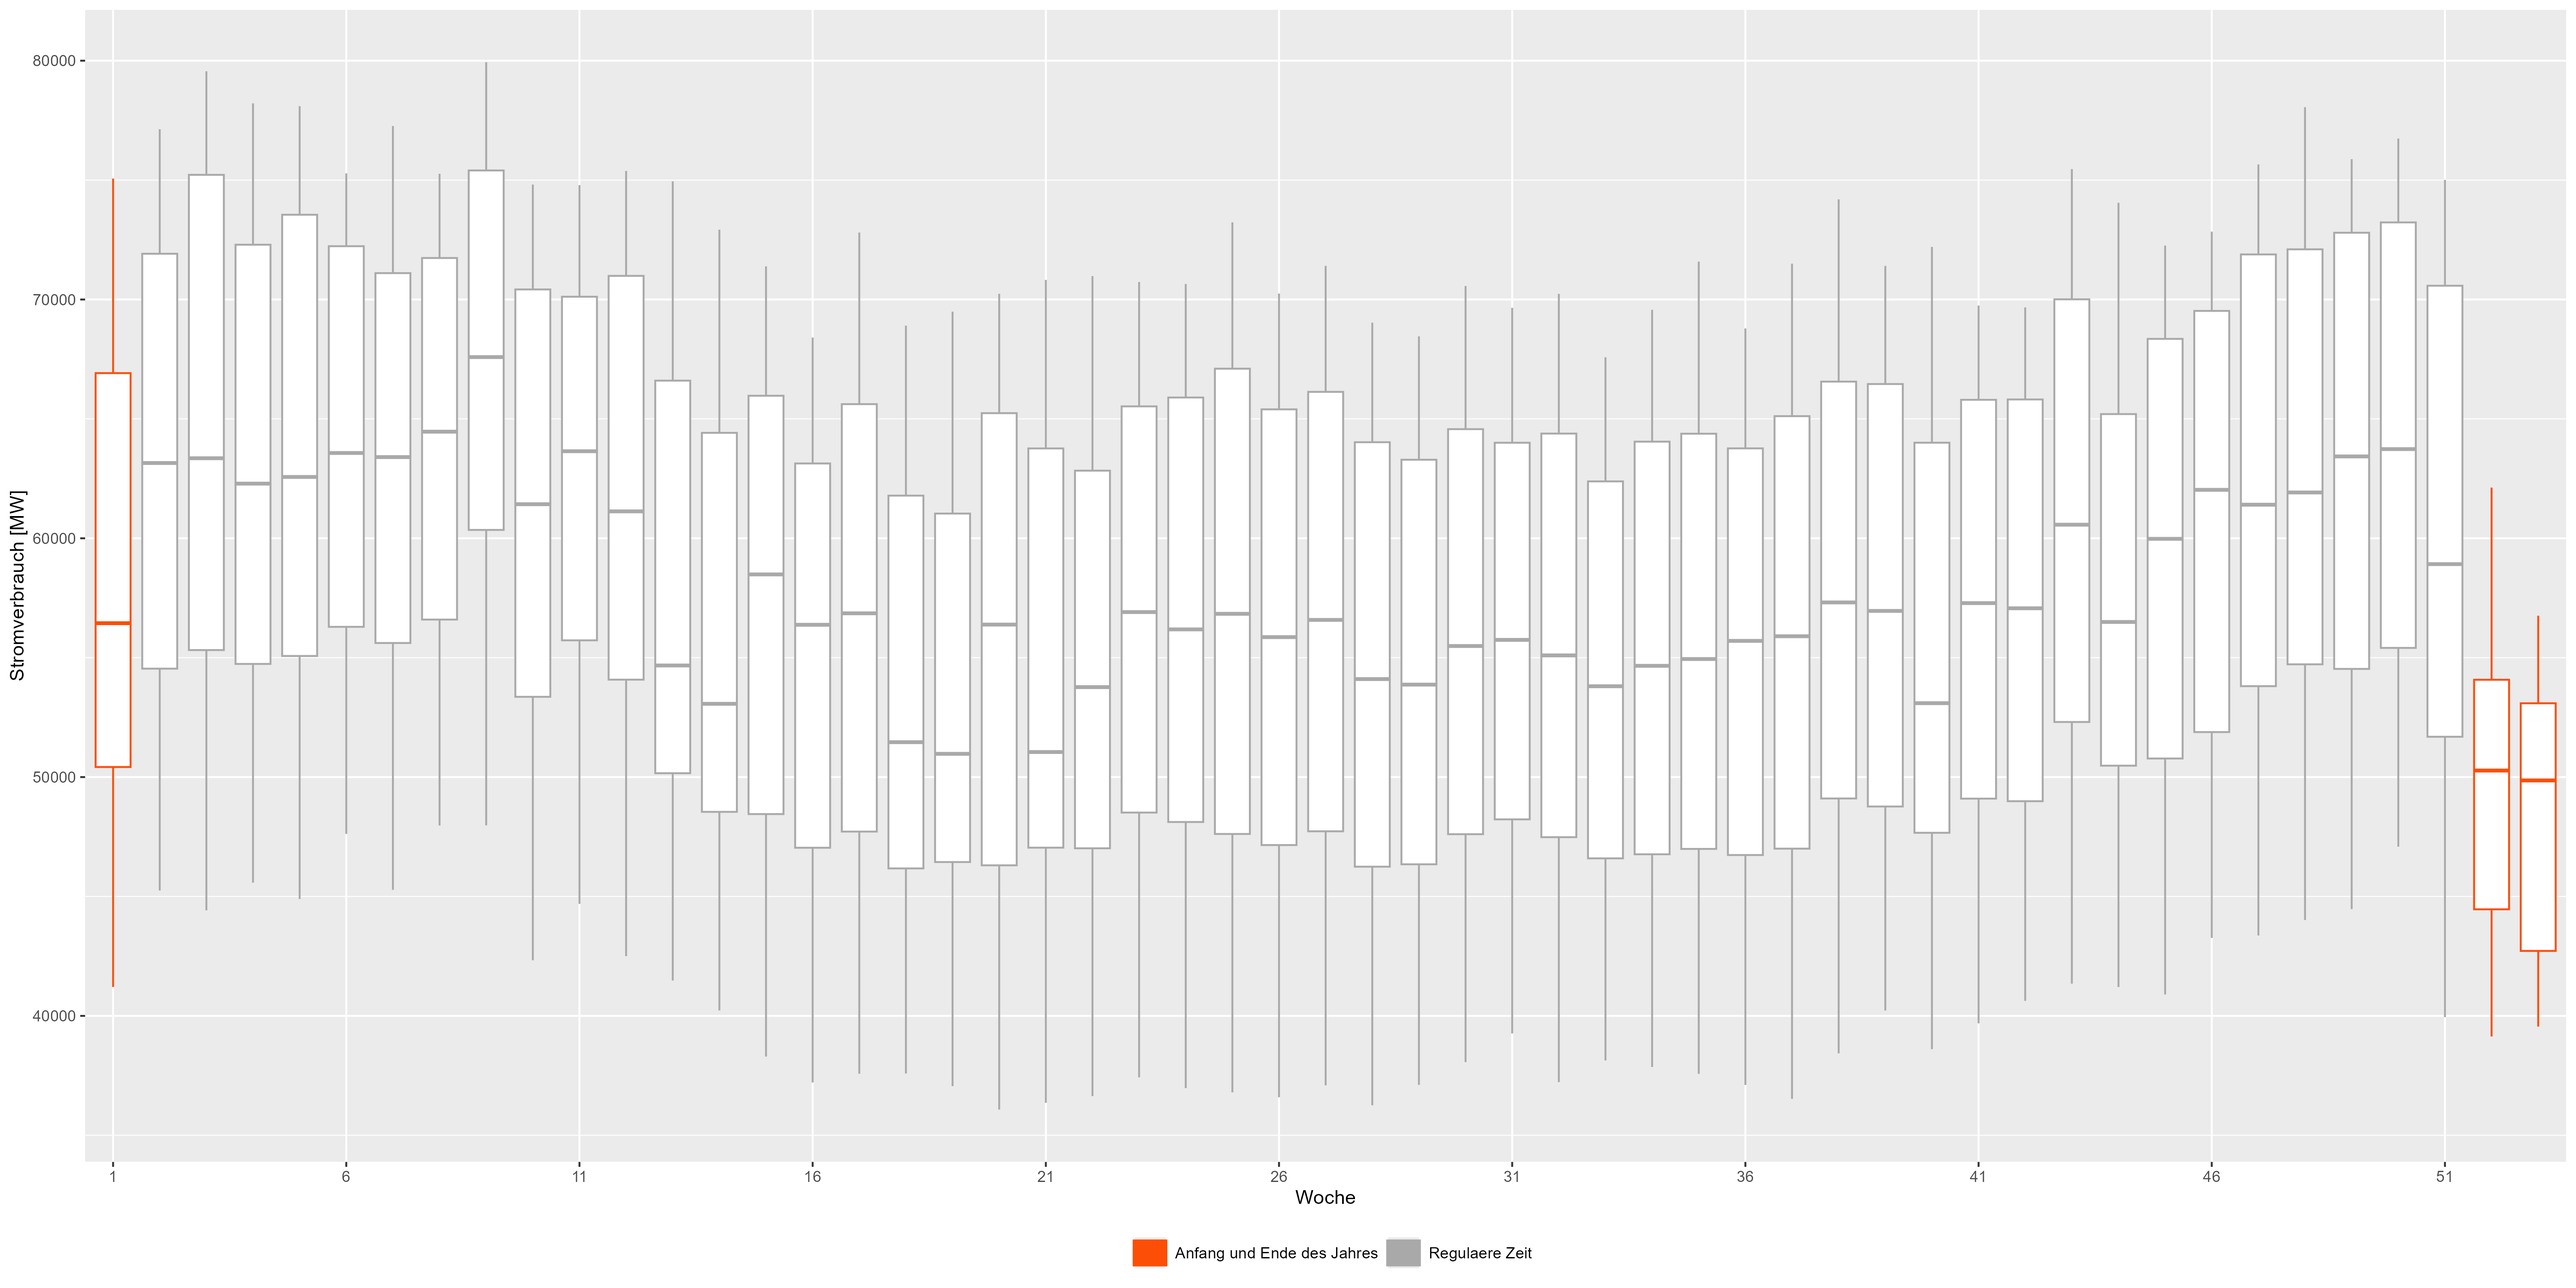
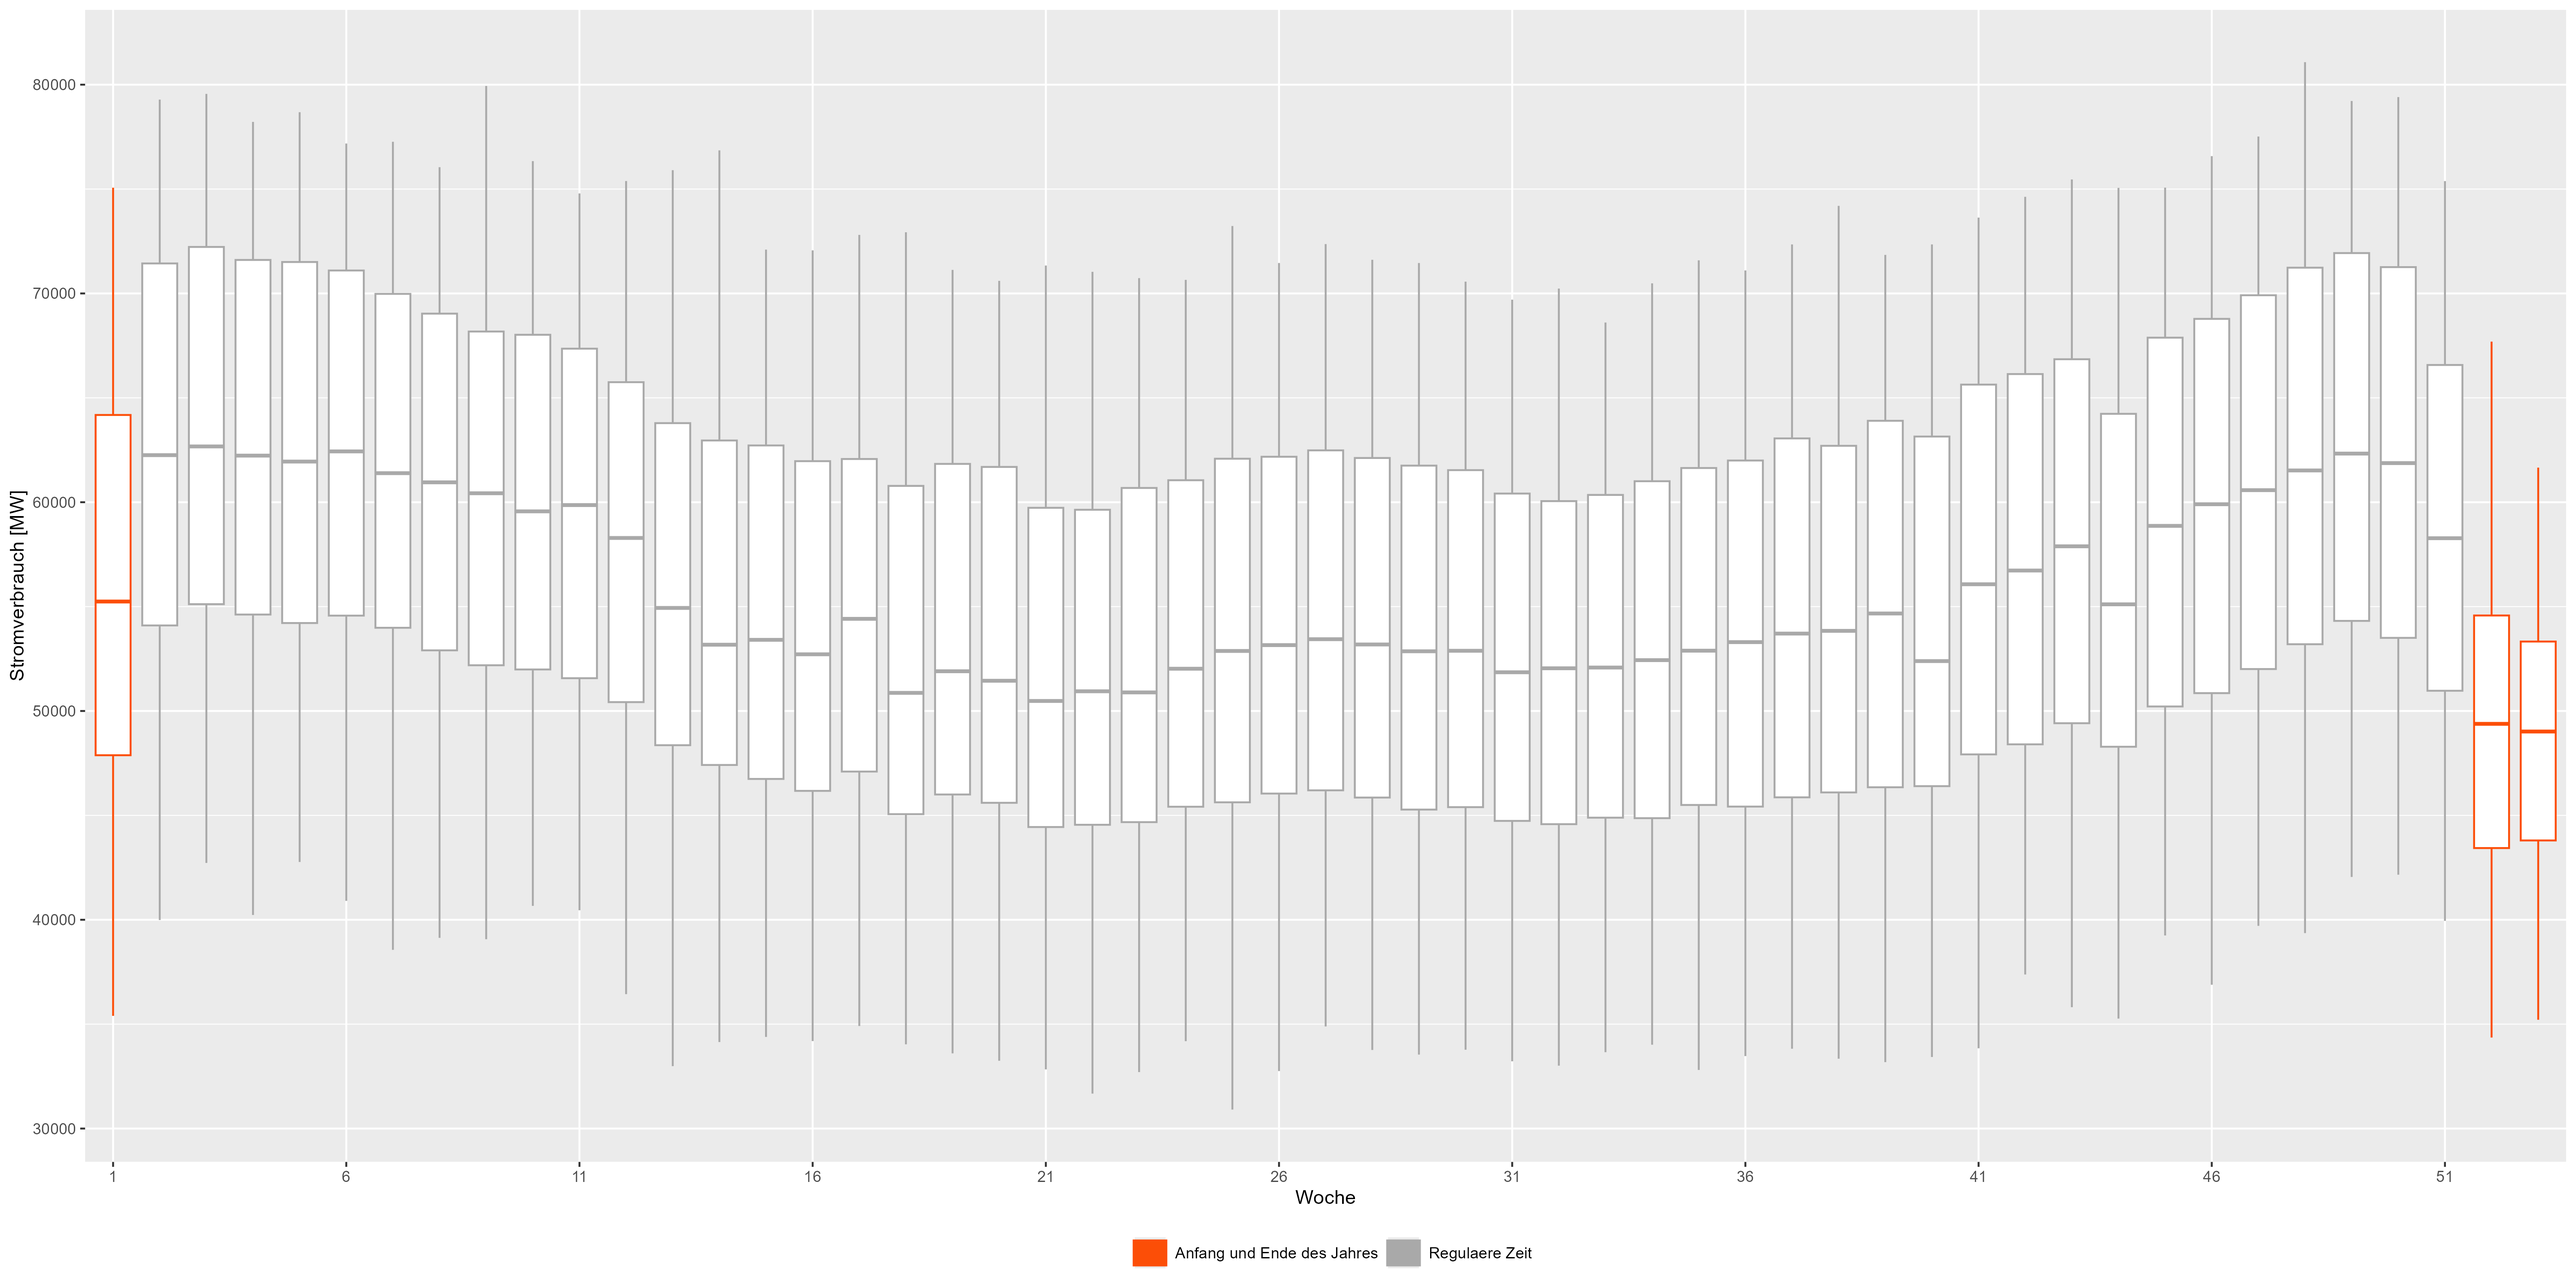
feature-explain

diff --git a/README.md b/README.md
@@ -2,7 +2,7 @@
 
 This repository is for forecasting german energy power consumption.
 
-Based on:
+Based opn and inspired from:
 
 - [Forecasting: Principles and Practice](https://otexts.com/fpp3/)
 - DOI: [10.1109/TPWRS.2011.2162082](https://ieeexplore.ieee.org/document/5985500) - Short-Term Load Forecasting Based on a Semi-Parametric Additive Model
@@ -19,17 +19,76 @@ Put all dowloaded files into:
     /example/dataset
 
 Check the [forecast.Rmd](example/forecast.Rmd) file to see how you can run
-this code on your dataset.
+this code on a updated Version of SMARD-Data.
 
-# Database
+---
 
-## Raw Dataset
+## From raw to cleaned Dataset
 
+    # Define datapaths
+    power_consum_path <- "dataset\\stunde_2015_2024\\Realisierter_Stromverbrauch_201501010000_202407090000_Stunde.csv"
+    power_consum_smard_prediction_path <- "dataset\\propgnose_vom_smard\\Prognostizierter_Stromverbrauch_202401010000_202407090000_Stunde.csv"
+    
+    # Load Smard Prediction
+    power_consum_smard_prediction_loaded <- load_power_consum(path=power_consum_smard_prediction_path)
+    raw_smard_pred <- power_consum_smard_prediction_loaded$raw_data
+    cleaned_smard_pred <- power_consum_smard_prediction_loaded$cleaned_data
+    
+    cleaned_smard_pred <- cleaned_smard_pred |>
+      mutate(.model = "SMARD")
+    names(cleaned_smard_pred)[names(cleaned_smard_pred) == "PowerConsum"] <- ".mean"
+    
+    # Load PowerConsum Data
+    power_consum_loaded <- load_power_consum(path=power_consum_path)
+    raw_power_consum <- power_consum_loaded$raw_data
+    cleaned_power_consum <- power_consum_loaded$cleaned_data
+
+Following features were generated from the dataset:
+
+| Index | Column Name                           | Description                                                      |
+|-------|---------------------------------------|------------------------------------------------------------------|
+| 1     | DateFrom                              | For validation of DateIndex (similar, but raw)                   |
+| 2     | PowerConsum                           | Power Consum in MW                                               |
+| 3     | DateIndex                             | Timestamp (yyyy-mm-dd hh:mm:ss)                                  |
+| 4     | Weekday                               | Mo, Di, Mi, Do, Fr, Sa, So (Weekdays in german)                  |
+| 5     | Date                                  | Date (yyyy-mm-dd)                                                |
+| 6     | Year                                  | Year yyyy                                                        |
+| 7     | Week                                  | Weeknumber 0-53                                                  |
+| 8     | Hour                                  | Hournumber 0-24                                                  |
+| 9     | Month                                 | Monthnumber 1-12                                                 |
+| 10    | localName                             | Name of a Holiday for Timestamp                                  |
+| 11    | WorkDay                               | 1/0 If Workday (Werktag) then 1                                  |
+| 12    | Mo                                    | 1/0 If Monday then 1                                             |
+| 13    | Di                                    | 1/0 If Tuesday then 1                                            |
+| 14    | Mi                                    | 1/0 If Wednesday then 1                                          |
+| 15    | Do                                    | 1/0 If Thursday then 1                                           |
+| 16    | Fr                                    | 1/0 If Friday then 1                                             |
+| 17    | Sa                                    | 1/0 If Saturday then 1                                           |
+| 18    | So                                    | 1/0 If Sunday then 1 (not needed, if Mon.-Sat. are used)         |
+| 19    | Holiday                               | 1/0 If it is a Holiday then 1                                    |
+| 20    | WorkdayHolidayWeekend                 | If it is a Holiday, Weekend or a Workday (for Plots, is Char.)   |
+| 21    | HolidayAndWorkDay                     | 1/0 If the Holiday is on a Workday then 1                        |
+| 22    | LastDayWasNotWorkDay                  | 1/0 If last day was not a Workday then 1                         |
+| 23    | LastDayWasNotWorkDayAndNowWorkDay     | 1/0 If last day was not a Workday and now it is a Workday then 1 |
+| 24    | NextDayIsNotWorkDayAndNowWorkDay      | 1/0 If next day is not a Workday and now a workday then 1        |
+| 25    | LastDayWasHolidayAndNotWeekend        | 1/0 If last day was a holiday and not a weekend then 1           |
+| 26    | NextDayIsHolidayAndNotWeekend         | 1/0 If next day is a holiday and not a weekend then 1            |
+| 27    | HolidayName                           | similar to localName (Name of the holiday)                       |
+| 28    | EndOfTheYear                          | 1/0 If it the end of the year (Week 52 or 53)                    |
+| 29    | FirstWeekOfTheYear                    | 1/0 If it is the beginning of the year (Week 1)                  |
+| 30    | HolidayExtended                       | 1/0 Lagged Holiday (6 Hours into the next day)                   |
+| 31    | HolidaySmoothed                       | HolidayExtend + sin(2*pi(Hour)+1)/24)                            |
+| 32    | MeanLastWeek                          | Mean PowerConsum of the Last Week  (Shift: 24*8-25)              |
+| 33    | MeanLastTwoDays                       | Mean PowerConsum of the last two days (Shift: 24*3-25)           |
+| 34    | MaxLastOneDay                         | Max PowerConsum of the last Day (Shift: 24*2-25)                 |
+| 35    | MinLastOneDay                         | Min PowerConsum of the last Day (Shift: 24*2-25)                 |
+
+ 
 In this study there is a dataset for Power-Consum in germany from [SMARD](https://www.smard.de/home/downloadcenter/download-marktdaten/) for
-the year 2015 - 2024.
+the years 2015 - 2024.
 
-Figure 1 shows the raw dataset with missing values (red), duplicated timestamps (orange) and
-Power-Consum over time (black), hourly resolution. With one missing values and one duplicate every year it was
+Figure 1 shows the raw dataset with missing values (red), duplicated timestamps (darkred) and
+Power-Consum over time (grey), hourly resolution. With one missing values and one duplicate every year it was
 easy to clean up the dataset. Overall an almost clean set. After cleaning up the dataset there are
 plausible observations for the Power-Consum:
 
@@ -52,8 +111,8 @@ there is a decrease (Christmas, New-year).
 Figure 2 Raw Power-Consum - Years
 
 The boxplot combination of all years we can see the pattern in more detail. Figure 3 shows this
-pattern. 
-![TEST](example/plots/week_boxplot.png)
+pattern. Beginning and the end of a year is represented in red.
+![TEST](example/plots/raw_week.png)
 Figure 3 Raw Power-Consum - Weeks
 
 
@@ -65,16 +124,7 @@ the end of the year. Around 24th December, there is a decrease of Power-Consum.
 ![TEST](example/plots/raw_month.png)
 Figure 4 Raw Power-Consum - Monthly
 
-## Raw Dataset, weekly representation
-
-Figure 5 is weekly representation of the year 2018. Red marked lines are holidays. 
-We can notice, that on holidays, but also on weekend (Saturday, Sunday) therese is a 
-decrease of Power-Consum. 
-
-![TEST](example/plots/raw_week.png)
-Figure 5 Raw Power-Consum - Weekly
-
-Figure 6 shows weekdays over years (2015-2024). To be sure, there is a decrease for weekend. 
+## Day of the week effect
 
 ![TEST](example/plots/weekday_boxplot.png)
 Figure 6 Raw Power-Consum - Weeks
@@ -128,51 +178,79 @@ This will be also involved to fit the best model.
 To compare the best model there are few simple approaches, like the MEAN, NAIVE and DRIFT methods.
 To compare the models we use metrics MAE and MAPE. 
 
-### ARIMA-Automated
+### LHM + DHR (Best Model)
 
-First approach is to use the best ARIMA Model:
-
-    ARIMA_A=ARIMA(PowerConsum ~ 
-                    WorkDay 
-                  + MeanLastWeek
-                  + MeanLastTwoDays
-                  + MaxLastOneDay
-                  + MinLastOneDay
-                  , stepwise = TRUE, approx = TRUE, greedy=TRUE),
-
-### ARIMA-Fourier
-
-Next approach is to use the fourier terms to describe the complex seasonality. This model will select
-the best PDQ and pdq parameters automatically, by defining D=0 and d=0.
-
-    ARIMA = ARIMA(PowerConsum ~
-            PDQ(D=0)
-          + pdq(d=0)
-          + WorkDay
-          + MeanLastWeek
-          + MeanLastTwoDays
-          + MaxLastOneDay
-          + MinLastOneDay
-          + fourier(period = "day", K = 12)
-          + fourier(period = "week", K = 5)
-          + fourier(period = "year", K = 2),
-          order_constraint = p+q <=12 & P+Q <=12
-          ),
-
-### PROPHET
-
-The last approach is to use the Prophet Model.
-
-    PROPHET = prophet(
-      PowerConsum ~ 
-        MeanLastWeek
-      + MeanLastTwoDays
-      + MaxLastOneDay
-      + MinLastOneDay
-      + WorkDay 
-      + season(period = 24, order = 10) 
-      + season(period = 7*24, order = 5) 
-      + season(period = 365*24, order = 10)
+    train_power_consum_v5 <- train_power_consum |>
+      mutate(HolidaySmoothed = Holiday + sin(2 * pi * (as.numeric(Hour)+1) / 24))
+    
+    holiday_effect_model <- lm(
+      PowerConsum ~
+        HolidaySmoothed,
+      data = train_power_consum_v5
+    )
+    
+    saveRDS(holiday_effect_model, file = "ensemble_model/version_5/holiday_effect_2021_2023.rds") 
+    
+    train_power_consum_v5$Residuals <- residuals(holiday_effect_model)
+    
+    fit <- train_power_consum_v5 |>
+      model(
+        ARIMA = ARIMA(Residuals ~
+                        PDQ(0,0,0)
+                      + pdq(d=0)
+                      + MeanLastWeek
+                      + WorkDay
+                      + EndOfTheYear # new
+                      + FirstWeekOfTheYear # new
+                      + MeanLastTwoDays
+                      + MaxLastOneDay
+                      + MinLastOneDay
+                      + fourier(period = "day", K = 6)
+                      + fourier(period = "week", K = 7)
+                      + fourier(period = "year", K = 3)
+        )
+      )
+    
+    saveRDS(fit, file = "ensemble_model/version_5/arima_2021_2023.rds")
 
 ## Results
 
+
+| Index | Model Name                  | RMSE      | MAPE      | MAE       | Ensembled |
+|-------|-----------------------------|-----------|-----------|-----------|-----------|
+| 2     | RealObservations             | 0.000     | 0.000000  | 0.000     | TRUE      |
+| 3     | SMARD                        | 2480.693  | 3.602140  | 1869.466  | FALSE     |
+| 4     | SMARD                        | 2480.693  | 3.602140  | 1869.466  | TRUE      |
+| 5     | version_5                    | 2626.807  | 3.816012  | 1937.670  | TRUE      |
+| 6     | version_0                    | 2613.258  | 3.846888  | 1946.314  | TRUE      |
+| 7     | version_7                    | 2770.359  | 4.107272  | 2076.045  | TRUE      |
+| 8     | version_8                    | 2775.441  | 4.146788  | 2091.153  | TRUE      |
+| 9     | version_9                    | 2887.179  | 4.177841  | 2100.381  | TRUE      |
+| 10    | version_6                    | 2906.242  | 4.216517  | 2142.092  | TRUE      |
+| 11    | arima_14_2021_2023.rds       | 3208.735  | 4.389492  | 2207.395  | FALSE     |
+| 12    | arima_18_2021_2023.rds       | 3208.735  | 4.389492  | 2207.395  | FALSE     |
+| 13    | version_4                    | 2875.929  | 4.535388  | 2255.645  | TRUE      |
+| 14    | version_2                    | 2905.990  | 4.580770  | 2279.624  | TRUE      |
+| 15    | arima_9_2021_2023.rds        | 3267.160  | 4.611857  | 2302.918  | FALSE     |
+| 16    | arima_2_2021_2023.rds        | 3251.390  | 4.614028  | 2301.447  | FALSE     |
+| 17    | arima_4_2021_2023.rds        | 3251.390  | 4.614028  | 2301.447  | FALSE     |
+| 18    | arima_5_2021_2023.rds        | 3251.390  | 4.614028  | 2301.447  | FALSE     |
+| 19    | arima_13_2021_2023.rds       | 3283.745  | 4.619636  | 2307.415  | FALSE     |
+| 20    | arima_10_2021_2023.rds       | 3265.913  | 4.625508  | 2314.395  | FALSE     |
+| 21    | arima_0_2021_2023.rds        | 3269.009  | 4.645944  | 2317.138  | FALSE     |
+| 22    | arima_17_2021_2023.rds       | 3269.009  | 4.645944  | 2317.138  | FALSE     |
+| 23    | arima_16_2021_2023.rds       | 3298.902  | 4.673116  | 2334.857  | FALSE     |
+| 24    | arima_1_2021_2023.rds        | 3312.429  | 4.696342  | 2340.193  | FALSE     |
+| 25    | arima_8_2021_2023.rds        | 3332.217  | 4.716612  | 2358.085  | FALSE     |
+| 26    | arima_11_2021_2023.rds       | 3358.020  | 4.758970  | 2388.791  | FALSE     |
+| 27    | arima_12_2021_2023.rds       | 3430.191  | 5.022772  | 2495.067  | FALSE     |
+| 28    | arima_7_2021_2023.rds        | 3475.671  | 5.049287  | 2510.903  | FALSE     |
+| 29    | version_3                    | 3546.729  | 5.064654  | 2570.530  | TRUE      |
+| 30    | arima_15_2021_2023.rds       | 3734.584  | 5.165147  | 2606.661  | FALSE     |
+| 31    | arima_6_2021_2023.rds        | 3748.583  | 5.375326  | 2723.837  | FALSE     |
+| 32    | version_1                    | 4495.568  | 6.483477  | 3229.647  | TRUE      |
+| 33    | arima_3_2021_2023.rds        | 4558.982  | 6.953247  | 3453.387  | FALSE     |
+| 34    | tslm_0_2021_2023.rds         | 6760.994  | 11.189119 | 5694.949  | FALSE     |
+| 35    | mean_2021_2023.rds           | 9489.303  | 16.406032 | 8101.476  | FALSE     |
+| 36    | naive_2021_2023.rds          | 14699.338 | 20.797370 | 12130.587 | FALSE     |
+| 37    | drift_2021_2023.rds          | 14763.692 | 20.917883 | 12200.002 | FALSE     |
